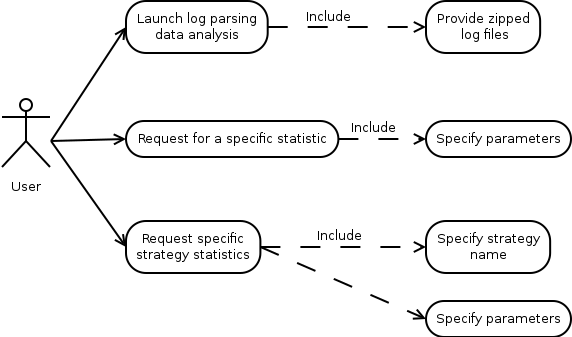
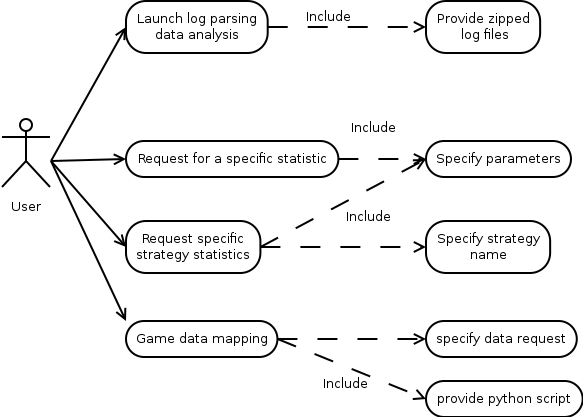
Requirements done

diff --git a/rapport/Requirements.tex b/rapport/Requirements.tex
@@ -177,7 +177,7 @@ Following is a list of the expected functions to be available on the software.
     \begin{itemize}
     \item{Launch the log parsing}
     \item{Statistics requests}
-    \item{Strategy statistics requests}
+    \item{Game data mapping}
     \end{itemize}
   \item{\textbf{Data modeling:}}
     \begin{itemize}
@@ -224,11 +224,11 @@ Following is a list of the expected functions to be available on the software.
 \begin{itemize}
  \item \textbf{User :} The user will launch the parsing of the logs and demands analyses to be done
    on the stored data that will then be shown in the form of charts.\\
-   %TODO: The user's actions can be decomposed in two parts:
-   %\begin{itemize}
-   %\item Precomputation step: This action will be performed once at the beginning and will launch the parsing phase and the standard analyzing of the games (strategy recognition, elo calculation)
-   %\item User's data analyzing: This will be a loop in wich the user can ask for standard statistics display or create complex analyzing using python scripts and specific data queries. as long as the parsed data isn't erased or modified (new logs, new program, database deletion) this process can be repeated without having to reparse the data.
-   %\end{itemize}
+   The user's actions can be decomposed in two parts:
+   \begin{itemize}
+   \item Precomputation step: This action will be performed once at the beginning and will launch the parsing phase and the standard analyzing of the games (strategy recognition, elo calculation)
+   \item User's data analyzing: This will be a loop in wich the user can ask for standard statistics display or create complex analyzing using python scripts and specific data queries. as long as the parsed data isn't erased or modified (new logs, new program, database deletion) this process can be repeated without having to reparse the data.
+   \end{itemize}
 \end{itemize}
 \textbf{System Actors :}\\
 \begin{itemize}
@@ -324,16 +324,6 @@ some problems found at the moment that this SRS is being write are:
 % prefer to organize this section by use case, mode of operation, user class,
 % object class, functional hierarchy, or combinations of these, whatever makes the
 % most logical sense for your product.$>$
-% \textbf{the following image illustrate an overview of the use case of the software.}\\
-% \includegraphics[width=\textwidth,height=\textheight,keepaspectratio]{UseCaseParsing}
-% \newpage
-% \textbf{this image shows with more details the use-case of the data analyzes and
-% data recovery.}\\
-% \\
-% \includegraphics[width=\textwidth,height=\textheight,keepaspectratio]{UseCaseDataMining}
-
-% \newpage
-% \includegraphics[width=\textwidth,height=\textheight,keepaspectratio]{UseCaseParser}
 \section{User interface}
 The program user interface will be composed of a executable(dominionmining) that will be
 executed with certain parameters to execute the desired action.
@@ -349,32 +339,10 @@ Before the use of any features of the program , the user has to launch the parsi
   \item Once the previous step is done, the user can execute the parsing by
       typing : \textit{dominionmining parse (zlib/snappy)} if no compression is
       given the default compression is \textit{snappy}.
-    %TODO \item For testing purposes, in order to avoid having a 4 hours parsing step, the user can specify a percentage of the logs to be parsed. by specifing a value between 0 and 100. the parser will randomly select logs from the provided ones and parse them, creating a usable database for further testing.
+    \item For testing purposes, in order to avoid having a 4 hours parsing step, the user can specify a percentage of the logs to be parsed. by specifing a value between 0 and 100. the parser will randomly select logs from the provided ones and parse them, creating a usable database for further testing.
     \item once the parsing is done a message will be shown on the
       console (parsing done).
 \end{itemize}
-
-%TODO
-%\subsection{Game data mapping}
-%In order to allow the user to ask for specific statistics concerning a game, the program can be run in order to generate simplified game logs and then a python script will be applied to this log. This would allow more flexibility in the type of statistics displayable by the program.
-%\begin{itemize}
-%\item the program will be launched by using the following command: \textit{dominionmining data\_to\_query user\_script.py}
-% \item the python script will be applied to the generated result and return the statistics asked by the user.
-%\item The generated file containing the query results will have the following format:
-%\begin{itemize}
-%\item The name of the produced file is \textit{game.txt}
-%\item The simplified log will contain each action made by the player, one action per line(TODO: provide a list of actions and their name in the simplified log). List of actions and their format:
-%\begin{itemize}
-%\item Revealing a card: \textit{player\_x reveals card\_name}
-%\item Drawing cards: \textit{player\_x draws n cards}
-%\item Buying a card: \textit{player\_x buys card\_name}
-%\item Trashing cards: \textit{player\_x trashes n cards}
-%\item Puts a card: \textit{player\_x puts card\_name}
-%\item Gaining a card: \textit{player\_x gains card\_name}
-%\item Plays a card: \textit{player\_x plays card\_name}
-%\end{itemize}
-%\end{itemize}
-%\end{itemize}
 
 \subsection{Statistics requests}
 \subsubsection{Description and Priority}
@@ -388,6 +356,28 @@ future.\\
 
 The return of a statistic can be a chart displayed in a window or exported to a
 file. If its a single value, a name or a sentence it will be returned in the prompt.
+
+
+\subsection{Game data mapping}
+In order to allow the user to ask for specific statistics concerning a game, the program can be run in order to generate simplified game logs and then a python script will be applied to this log. This would allow more flexibility in the type of statistics displayable by the program.
+\begin{itemize}
+\item the program will be launched by using the following command: \textit{dominionmining data\_to\_query user\_script.py}
+ \item the python script will be applied to the generated result and return the statistics asked by the user.
+\item The generated file containing the query results will have the following format:
+\begin{itemize}
+\item The name of the produced file is \textit{game.txt}
+\item The simplified log will contain each action made by the player, one action per line(TODO: provide a list of actions and their name in the simplified log). List of actions and their format:
+\begin{itemize}
+\item Revealing a card: \textit{player\_x reveals card\_name}
+\item Drawing cards: \textit{player\_x draws n cards}
+\item Buying a card: \textit{player\_x buys card\_name}
+\item Trashing cards: \textit{player\_x trashes n cards}
+\item Puts a card: \textit{player\_x puts card\_name}
+\item Gaining a card: \textit{player\_x gains card\_name}
+\item Plays a card: \textit{player\_x plays card\_name}
+\end{itemize}
+\end{itemize}
+\end{itemize}
 
 \section{Data Modeling}
 
@@ -587,7 +577,6 @@ The program will recognize when the greening happens by detecting when victory c
 % functional requirements or features.$>$
 No specific performance requirement was made by the client. But for the analyzer
 a time of running should be less than an hour.\\
-%TODO: peut-etre a précisier
 The user should be able to iterate the analysis process on a precise dataset without having to wait for the same query to be done again.
 
 
@@ -611,7 +600,7 @@ any missing information if possible.\\
 Even if just a command line is expected for the final program it should have a
 easy learn curve and be easy to use.\\
 The data generated by the parser don't need to be human readable.\\
-%TODO: The game logs generated will have to be analyzeable by the user in order to allow as much flexiblity as possible in the treatment of the logs.
+The game logs generated will have to be analyzeable by the user in order to allow as much flexiblity as possible in the treatment of the logs.
 
 
 %\chapter{Other Requirements}
